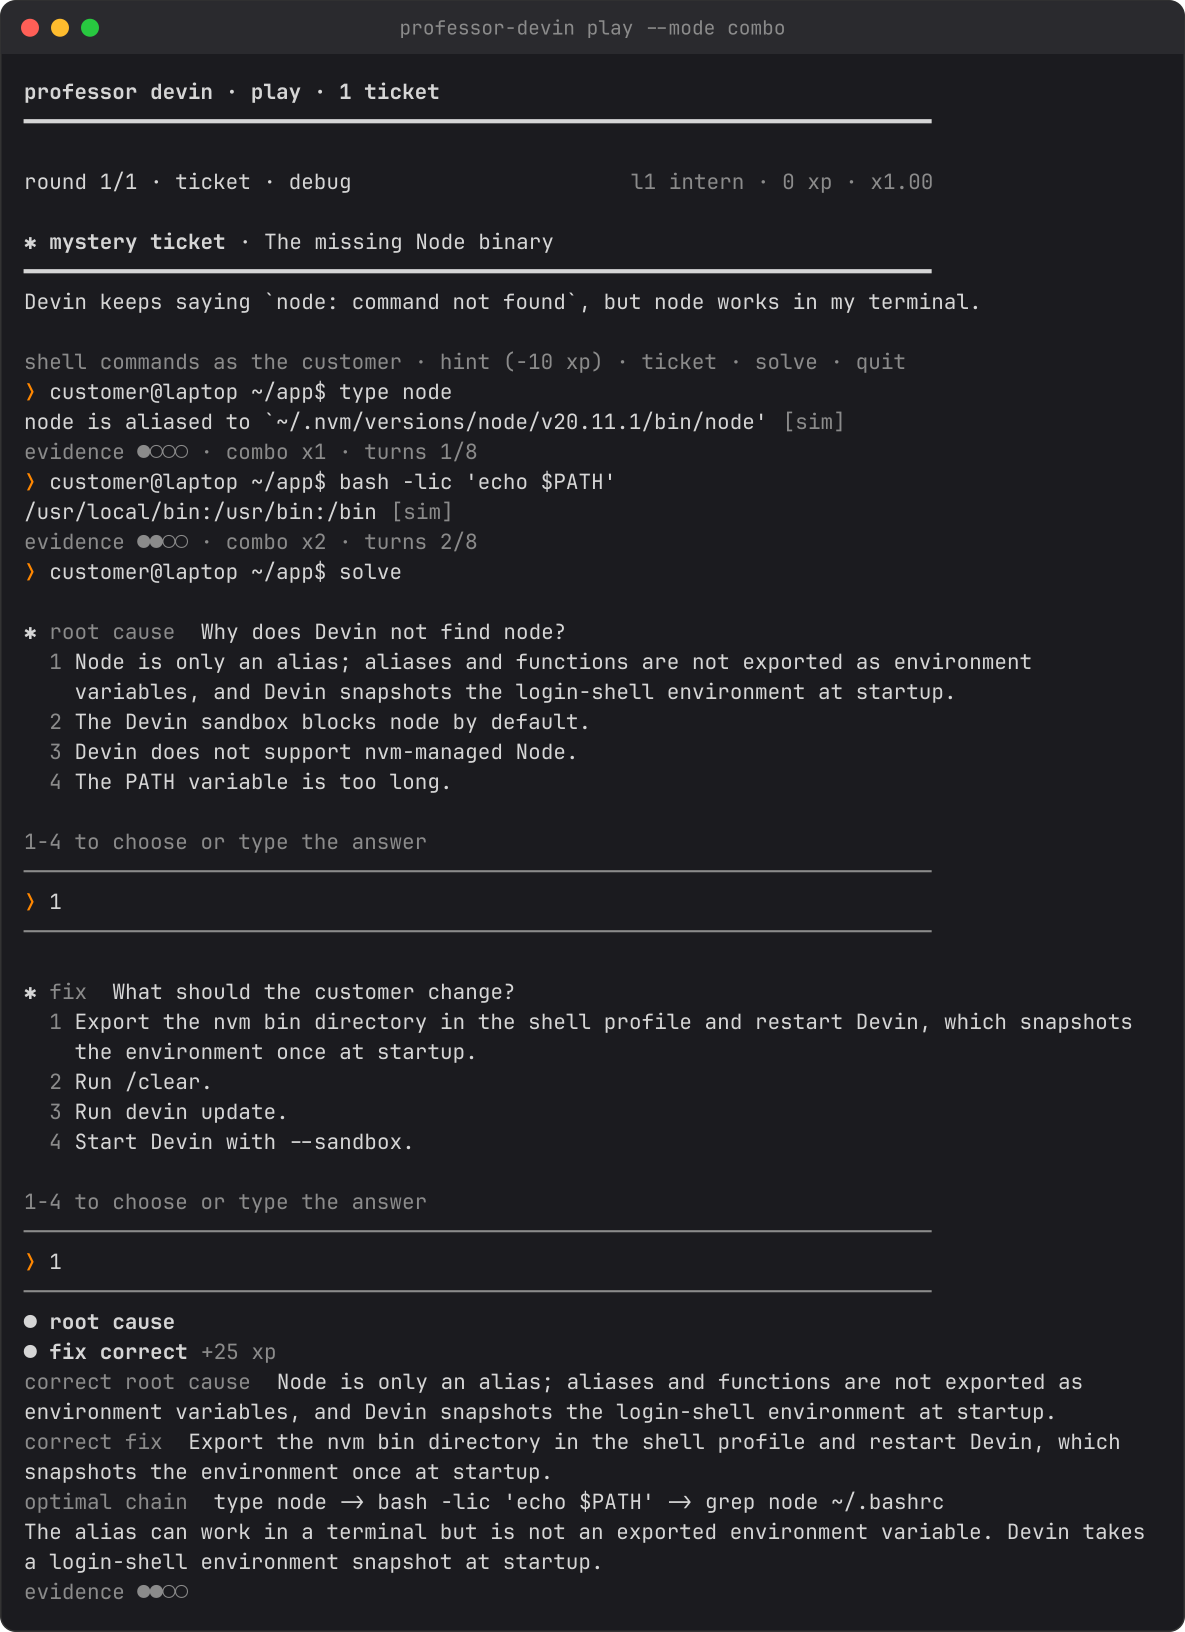
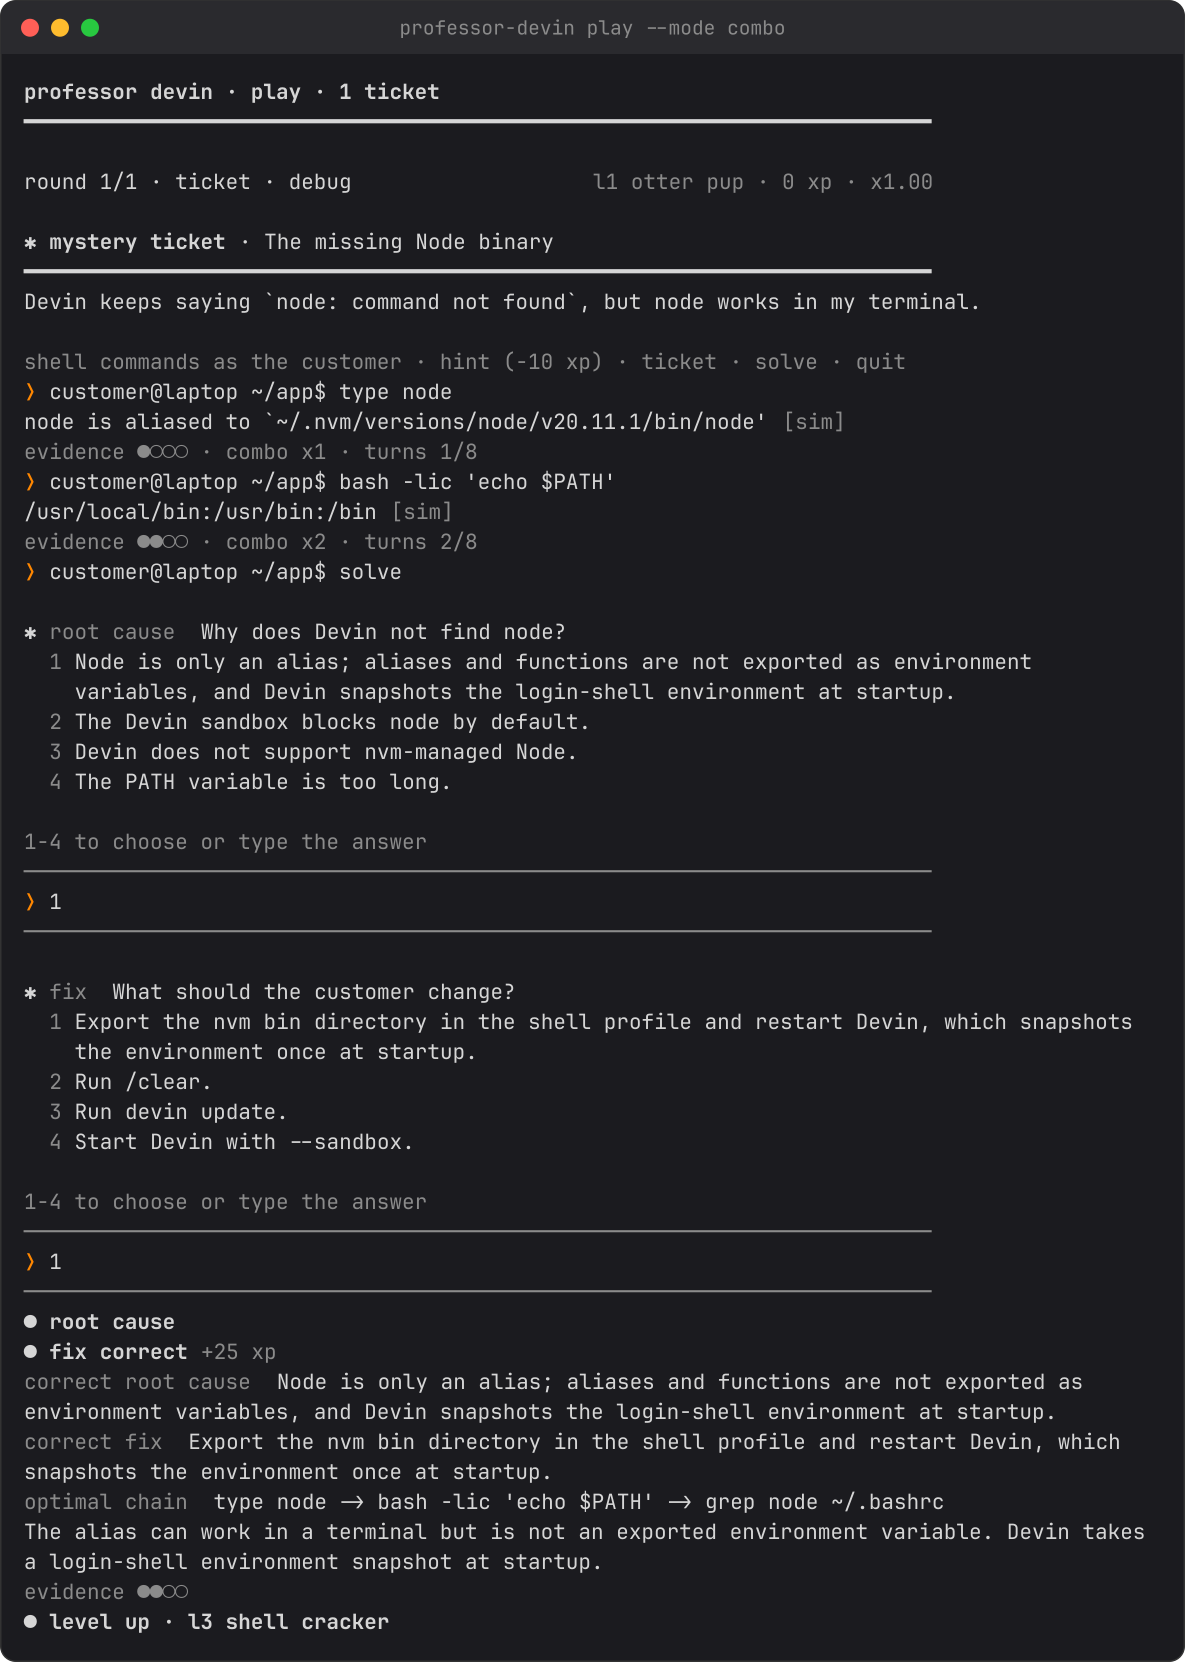
Replace the RCA rank ladder with an otter ladder; add level-up notice and next-rank line
The old titles (Intern ... Staff RCA) read as support-desk root-cause culture
and capped out at level 7. Ranks now follow the Devin otter from otter pup to
devin deity (level 10+), with a few CLI in-jokes (brisk otter, sidekick,
dangerous otter) along the way. Rounds that raise the level print a strong
"level up" line after the outcome, and stats names the next rank and the xp
still needed, so the ladder is visible instead of a silent header change.

Generated with [Devin](https://devin.ai)

diff --git a/dojo/dojo.py b/dojo/dojo.py
@@ -28,13 +28,17 @@ DRILL_TIME_BONUS_SECONDS = 20
 DRILL_BASE_XP = 25
 VALID_TIERS = (1, 2, 3)
 TITLES = {
-    1: "Intern",
-    2: "Log Reader",
-    3: "Triage Tech",
-    4: "Tracer",
-    5: "Config Whisperer",
-    6: "Root-Causer",
+    1: "Otter Pup",
+    2: "Rock Picker",
+    3: "Shell Cracker",
+    4: "Brisk Otter",
+    5: "Sidekick",
+    6: "Raft Captain",
+    7: "Dangerous Otter",
+    8: "Keystone Otter",
+    9: "Laptop Otter",
 }
+TOP_TITLE = "Devin Deity"
 KNOWN_COMMANDS = {
     "devin", "cat", "ls", "jq", "rg", "grep", "env", "echo", "type", "which",
     "command", "bash", "curl", "ps", "lsof", "ss", "strace", "tail", "head",
@@ -456,7 +460,7 @@ def level_for_xp(xp):
 
 
 def title_for_level(level):
-    return TITLES.get(level, "Staff RCA")
+    return TITLES.get(level, TOP_TITLE)
 
 
 def streak_multiplier(streak):
@@ -1393,6 +1397,7 @@ class Dojo:
         self.last_new_category = None
         self.last_new_tier = None
         self.session_hint = None
+        self.round_level = level_for_xp(self.state.get("xp", 0))
 
     def award(self, points):
         old_xp = self.state.get("xp", 0)
@@ -1400,6 +1405,15 @@ class Dojo:
         actual = self.state["xp"] - old_xp
         self.session_xp += actual
         return actual
+
+    def print_level_up(self):
+        level = level_for_xp(self.state.get("xp", 0))
+        if level > self.round_level:
+            print(strong("%s %s" % (
+                glyph("found"),
+                chrome("Level up %s L%d %s" % (glyph("separator"), level, title_for_level(level))),
+            )))
+        self.round_level = level
 
     def begin_session(self, seed=None):
         if seed is not None:
@@ -1426,6 +1440,7 @@ class Dojo:
             self.state["daily_streak"] = 1
         self.state["last_session_date"] = today.isoformat()
         self.state["sessions"] = self.state.get("sessions", 0) + 1
+        self.round_level = level_for_xp(self.state.get("xp", 0))
 
     def record_round(self, item, correct):
         self.round_attempts += 1
@@ -1455,6 +1470,7 @@ class Dojo:
 
     def header(self, item, category, round_number, total_rounds):
         level = level_for_xp(self.state.get("xp", 0))
+        self.round_level = level
         multiplier = self.global_multiplier()
         digits = len(str(total_rounds))
         round_label = "%0*d/%0*d" % (
@@ -1501,6 +1517,7 @@ class Dojo:
 
     def training_header(self, item, form, round_number, total_rounds):
         level = level_for_xp(self.state.get("xp", 0))
+        self.round_level = level
         digits = len(str(total_rounds))
         round_label = "%0*d/%0*d" % (digits, round_number, digits, total_rounds)
         left = chrome("Round %s %s %s %s %s" % (
@@ -1858,6 +1875,7 @@ class Dojo:
                 form = self.command_form(card)
                 self.training_header(card, form, round_number + 1, rounds + 1)
                 result = self.ask_command_card(card, filtered, form)
+                self.print_level_up()
                 if result is None or self.stop_requested:
                     break
             if not self.stop_requested:
@@ -1867,6 +1885,7 @@ class Dojo:
                 if ticket:
                     self.header(ticket, "combo", rounds + 1, rounds + 1)
                     self.play_combo(ticket)
+                    self.print_level_up()
         except EOFError:
             print("\n%s %s" % (glyph("quit"), muted(chrome("Input ended; saving progress"))))
         except KeyboardInterrupt:
@@ -2382,6 +2401,7 @@ class Dojo:
                 self.stop_requested = True
         else:
             self.play_combo(item)
+        self.print_level_up()
         return True
 
     def run_play_rounds(self, plan, options):
@@ -2592,6 +2612,7 @@ def show_stats(state):
         score_bar(progress),
         muted("%d/%d xp" % (xp, level_ceiling)),
     ))
+    print(muted(chrome("Next: L%d %s in %d xp" % (level + 1, title_for_level(level + 1), level_ceiling - xp))))
     print(kv("XP", xp))
     print(kv("Streak", state.get("streak", 0)))
     print(kv("Daily streak", state.get("daily_streak", 0)))

diff --git a/dojo/tests/test_professor.py b/dojo/tests/test_professor.py
@@ -677,6 +677,66 @@ class ProfessorEngineTests(unittest.TestCase):
             self.assertTrue(link.is_symlink())
             self.assertEqual(link.resolve(), ROOT / "dojo.py")
 
+    def test_titles_follow_the_otter_ladder(self):
+        self.assertEqual(dojo.title_for_level(1), "Otter Pup")
+        self.assertEqual(dojo.title_for_level(3), "Shell Cracker")
+        self.assertEqual(dojo.title_for_level(9), "Laptop Otter")
+        self.assertEqual(dojo.title_for_level(10), "Devin Deity")
+        self.assertEqual(dojo.title_for_level(42), "Devin Deity")
+        self.assertEqual(dojo.level_for_xp(4050), 10)
+        self.assertEqual(dojo.level_for_xp(4049), 9)
+
+    def test_level_up_notice_prints_once_after_crossing_round(self):
+        self.game.state["xp"] = 45
+        self.game.begin_session(seed=1)
+        self.game.award(10)
+        out = io.StringIO()
+        with redirect_stdout(out):
+            self.game.print_level_up()
+        self.assertIn("level up", out.getvalue())
+        self.assertIn("l2 rock picker", out.getvalue())
+        out = io.StringIO()
+        with redirect_stdout(out):
+            self.game.print_level_up()
+        self.assertEqual(out.getvalue(), "")
+        self.game.award(5)
+        out = io.StringIO()
+        with redirect_stdout(out):
+            self.game.print_level_up()
+        self.assertEqual(out.getvalue(), "")
+
+        self.game.state["xp"] = 45
+        self.game.begin_session(seed=1)
+        item = {
+            "id": "card-test-levelup",
+            "topic": "launch",
+            "q": "q",
+            "answers": ["correct"],
+            "keywords": ["correct"],
+            "hint": "hint",
+            "explain": "explain",
+        }
+        options = {"flash": [item], "drill": [], "combo": []}
+        out = io.StringIO()
+        with patch("builtins.input", return_value="correct"), redirect_stdout(out):
+            self.assertTrue(self.game.play_requested_round(1, 1, "flash", options))
+        text = out.getvalue()
+        self.assertIn("correct +10 xp", text)
+        self.assertIn("l2 rock picker", text)
+        self.assertLess(text.index("correct +10 xp"), text.index("level up"))
+
+    def test_stats_names_next_rank(self):
+        out = io.StringIO()
+        with redirect_stdout(out):
+            dojo.show_stats({"xp": 420, "items": {}})
+        self.assertIn("l3 shell cracker", out.getvalue())
+        self.assertIn("next: l4 brisk otter in 30 xp", out.getvalue())
+        out = io.StringIO()
+        with redirect_stdout(out):
+            dojo.show_stats({"xp": 4100, "items": {}})
+        self.assertIn("l10 devin deity", out.getvalue())
+        self.assertIn("next: l11 devin deity in 900 xp", out.getvalue())
+
 
 class MenuAndCliTests(unittest.TestCase):
     def setUp(self):

diff --git a/dojo/tests/test_dojo.py b/dojo/tests/test_dojo.py
@@ -501,7 +501,7 @@ class EndToEndTests(unittest.TestCase):
             )
             self.assertEqual(result.returncode, 0, result.stdout)
             self.assertIn("round 1/3", result.stdout)
-            self.assertNotIn("[L1 Intern", result.stdout)
+            self.assertNotIn("[L1 Otter Pup", result.stdout)
             state_path = Path(env["DOJO_HOME"]) / "state.json"
             self.assertTrue(state_path.exists())
             state = json.loads(state_path.read_text())

diff --git a/dojo/DESIGN.md b/dojo/DESIGN.md
@@ -42,7 +42,7 @@ CLI equivalent of the menu choice.
 Round header:
 ```
 (blank line)
-round 04/13 · flash · hooks            l3 triage tech · 420 xp · x1.75
+round 04/13 · flash · hooks            l3 shell cracker · 420 xp · x1.75
 ```
 Left part ink, right part muted, right-aligned to W (if it doesn't fit, put the right part on its own line).
 Numbers zero-padded to the width of total rounds. Train headers are the same (`round 03/10 · launch · recall`),
@@ -65,7 +65,7 @@ Menu logo banner (home menu):
  ⣤⣶⣦⣴⠿⢿⠿⠃  learn the devin cli by typing it      (muted)
  ⠻⢿⠿⠃      cards written for devin cli <content> · you have <ver>   (muted)
 ```
-followed by a muted progress line (`l1 intern · 0 xp · 0 cards due today`), the `✱ What do you want to
+followed by a muted progress line (`l1 otter pup · 0 xp · 0 cards due today`), the `✱ What do you want to
 practice?` question, the numbered options, the `1-7 to choose · ↵ quick start · q quit` footer, and `❭ `.
 
 The setup wizard (first run or `professor-devin setup`) reuses the same banner with the fourth line reading
@@ -84,6 +84,7 @@ Outcomes:
   (SignalDots: ● per key evidence found, ○ per remaining). `[sim]`/`[rec]` provenance tag muted, appended to output from
   simulated/recorded commands (add `[rec]`; today only `[sim]` shows).
 - root cause wrong: danger ` wrong root cause ` + muted `-20 xp`; right: strong `● root cause`.
+- level up: strong `● level up · l4 brisk otter`, printed after the round's outcome line (after the reveal for tickets)
 
 Mystery ticket intro: `✱ ` + strong chrome label `mystery ticket` + ` · <title>` (title is content), strong
 rule, then ticket text, then one muted footer (`shell commands as the customer · hint (-10 xp) · ticket ·
@@ -98,7 +99,7 @@ Summary and stats (app data surfaces):
   right-aligned numbers and a 10-cell ScoreBar for acc. Sorted by topic.
 - weakest topics, missed items (`○ <question>` then indented `<answer>`), due tomorrow, best combo, leitner boxes
   (stats: `box 1  box 2 ...` as a DataTable header with counts).
-- level progress in stats: `l3 triage tech` + ScoreBar of progress to next level + muted `420/450 xp`.
+- level progress in stats: `l3 shell cracker` + ScoreBar of progress to next level + muted `420/450 xp`, followed by a muted `next: l4 brisk otter in 30 xp` line.
 
 ## NO_COLOR / non-TTY
 No SGR at all. `FORCE_COLOR` (any value except `""`/`0`) forces color on even when piped. Lowercase chrome,

diff --git a/dojo/SPEC.md b/dojo/SPEC.md
@@ -145,9 +145,13 @@ The global streak counts consecutive correct rounds. The multiplier is
   fix. A hint or self-grade halves that command round's XP.
 
 The global streak multiplier applies to round XP. Level is
-`floor(sqrt(xp / 50)) + 1`. Titles are Intern, Log Reader, Triage Tech, Tracer,
-Config Whisperer, Root-Causer, then Staff RCA for level 7 and above. A daily
-streak counts consecutive days with at least one session.
+`floor(sqrt(xp / 50)) + 1`. Titles are Otter Pup, Rock Picker, Shell Cracker,
+Brisk Otter, Sidekick, Raft Captain, Dangerous Otter, Keystone Otter, Laptop
+Otter, then Devin Deity for level 10 and above. When a round raises the level,
+the game prints `● level up · l4 brisk otter` after that round's outcome (after
+the reveal for tickets). `stats` shows the next rank and the xp still needed
+(`next: l4 brisk otter in 30 xp`). A daily streak counts consecutive days with
+at least one session.
 
 The summary shows XP gained, accuracy, topic accuracy, the weakest topics,
 missed items, items due tomorrow, and the best combo. Training summaries also

diff --git a/README.md b/README.md
@@ -48,7 +48,7 @@ Command rounds and tickets are simulated; nothing you type in them runs for real
 - **Real answers.** Every `devin` command card is validated against the captured `devin <cmd> --help` text in `dojo/content/help/` (CLI 3000.11.92), so a wrong flag gets a precise correction, not just "wrong".
 - **Spaced repetition.** Each card sits in one of five boxes. Get it right and it moves up and comes back later (1, 3, 7, 21 days); miss it and it returns to box 1.
 - **Harder as you learn.** Box 1 cards are multiple choice, box 2 fill-in, box 3+ full recall. Fix cards show a broken command and its error.
-- **XP and levels.** Streaks multiply XP up to 3x. Levels run Intern, Log Reader, Triage Tech, Tracer, Config Whisperer, Root-Causer, Staff RCA.
+- **XP and levels.** Streaks multiply XP up to 3x. Levels run Otter Pup, Rock Picker, Shell Cracker, Brisk Otter, Sidekick, Raft Captain, Dangerous Otter, Keystone Otter, Laptop Otter, then Devin Deity.
 
 ![Progress](assets/stats.png)
 

diff --git a/dojo/README.md b/dojo/README.md
@@ -107,8 +107,10 @@ box 1 recognize, box 2 fill in, box 3+ recall.
   combo; a wrong root cause costs 20, a correct fix adds 25.
 
 The streak multiplier is `1 + 0.25 × streak`, capped at x3. Your level is
-`floor(sqrt(xp / 50)) + 1`: Intern, Log Reader, Triage Tech, Tracer, Config
-Whisperer, Root-Causer, Staff RCA.
+`floor(sqrt(xp / 50)) + 1`: Otter Pup, Rock Picker, Shell Cracker, Brisk
+Otter, Sidekick, Raft Captain, Dangerous Otter, Keystone Otter, Laptop Otter,
+then Devin Deity at level 10+. Crossing a level prints `● level up · l4 brisk
+otter` after the round, and `stats` shows `next: l4 brisk otter in 30 xp`.
 
 ## Command reference
 
